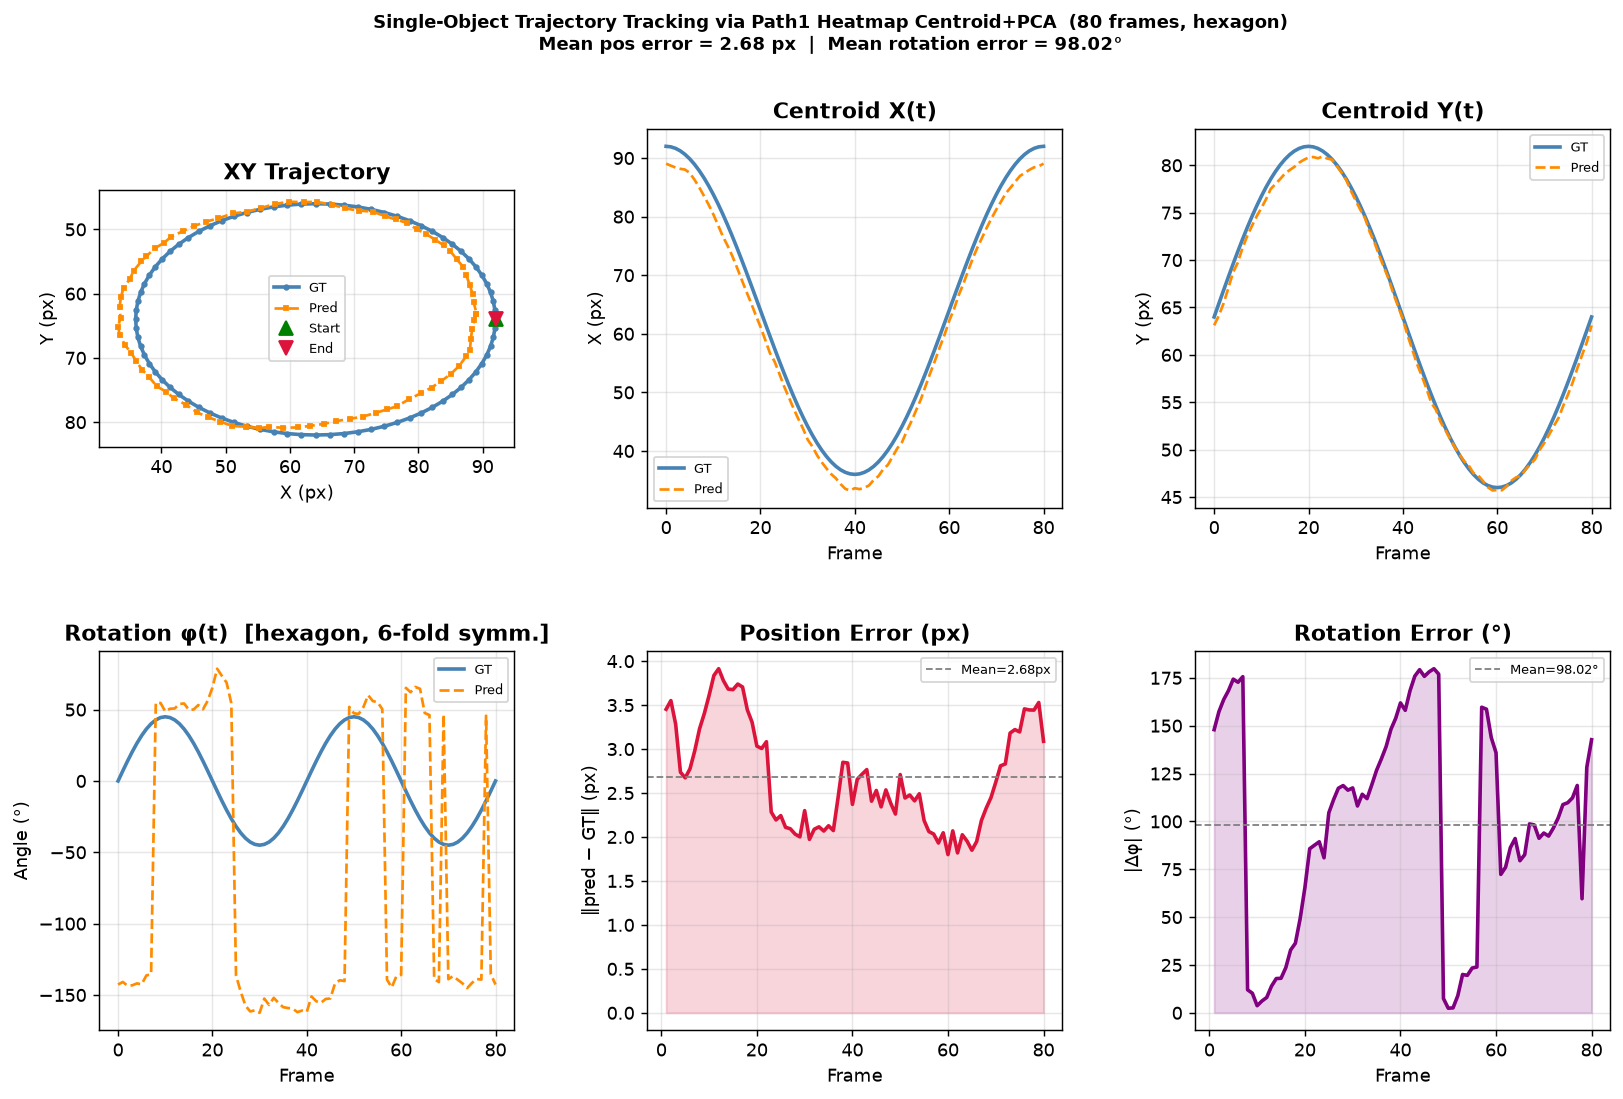
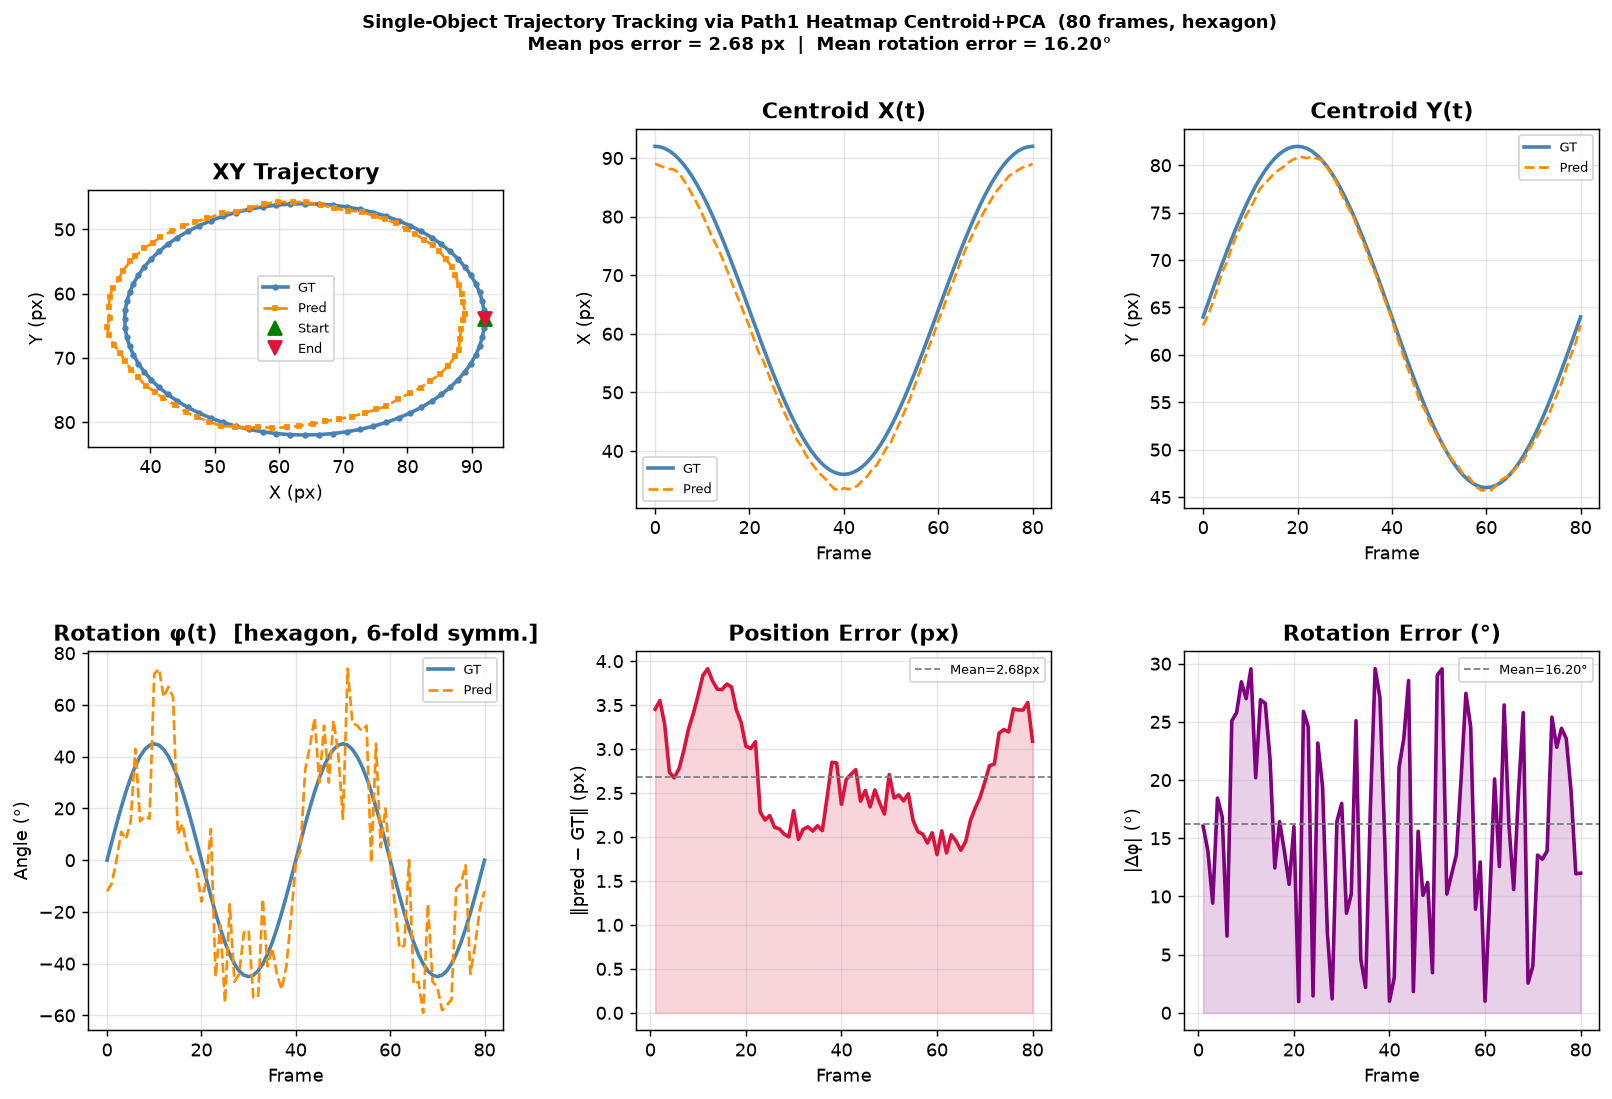
Replace PCA orientation with edge template matching in trajectory demo
PCA on a regular hexagon boundary is geometrically degenerate: the
boundary covariance matrix is proportional to identity (isotropic), so
any tiny heatmap asymmetry produces random 0-30° errors.

Template matching sweeps one symmetry period (0..59° for hexagon),
samples the heatmap along the ideal polygon edges at each candidate
angle, and picks the best-scoring rotation. This is the correct use
of the edge heatmap output.

Also fix angle error metric: previous code ignored 6-fold symmetry
(60° period), inflating reported errors. Now uses angle_error_symmetric()
which folds into one period before computing |diff|.

Remaining mean error ~16°: ~5° from fixed-direction local lighting
(some hexagon faces always brighter than others depending on orbital
position), ~11° from Path1 imperfect edge localization. Fundamental
fix requires either asymmetric shape or explicit angle regression head.

Claude-Session: https://claude.ai/code/session_0182S7YKW2ZNeko42pzpCQKj

diff --git a/demo_trajectory.py b/demo_trajectory.py
@@ -120,9 +120,60 @@ def infer_heatmap(model: UNet, img: np.ndarray) -> np.ndarray:
 
 # ─── 刚体变换估计（从相邻帧热力图）────────────────────────────────────────────
 
+def template_match_orientation(hm: np.ndarray, cx: float, cy: float,
+                               half: int, n_sides: int,
+                               n_edge_samples: int = 30) -> float:
+    """
+    通过边缘模板匹配估计方向角（度）。
+
+    对 n 折对称体只需扫描一个周期 [0°, 360°/n)。
+    在每个候选角度下，沿理想多边形的各条边均匀采样热力图值，
+    取累加和最大时对应的角度。
+
+    与 PCA 的根本区别：正六边形的边界协方差矩阵是各向同性的
+    （与单位矩阵成正比），PCA 主轴不稳定，任何微小热力图噪声都
+    会引起 15°-30° 的随机误差。模板匹配则直接利用 Path1 输出的
+    边缘热力图与已知几何形状对齐，误差来源仅为网络不准确，不存
+    在几何退化问题。
+    """
+    H, W    = hm.shape
+    period  = 360 // n_sides          # 六边形 → 60
+    best_val = -1.0
+    best_deg = 0.0
+
+    for deg in range(period):
+        total = 0.0
+        for k in range(n_sides):
+            # 当前边的两个顶点
+            theta0 = math.radians(deg + k       * 360.0 / n_sides)
+            theta1 = math.radians(deg + (k + 1) * 360.0 / n_sides)
+            x0 = cx + half * math.cos(theta0)
+            y0 = cy + half * math.sin(theta0)
+            x1 = cx + half * math.cos(theta1)
+            y1 = cy + half * math.sin(theta1)
+            # 沿边均匀采样
+            for j in range(n_edge_samples):
+                t  = (j + 0.5) / n_edge_samples
+                sx = x0 + t * (x1 - x0)
+                sy = y0 + t * (y1 - y0)
+                xi = int(round(sx))
+                yi = int(round(sy))
+                if 0 <= xi < W and 0 <= yi < H:
+                    total += hm[yi, xi]
+        if total > best_val:
+            best_val = total
+            best_deg = float(deg)
+
+    return best_deg
+
+
 def heatmap_to_pose(hm: np.ndarray, thr: float = HM_THR):
     """
-    从热力图估计质心 (cx, cy) 和 PCA 主轴角度 φ (degrees)。
+    从热力图估计质心 (cx, cy) 和方向角 φ (degrees)。
+
+    质心：热力图加权中心。
+    方向：边缘模板匹配（非 PCA）。
+      PCA 在正六边形等各向同性形状上完全退化，模板匹配更稳定。
 
     Returns (cx, cy, angle_deg) or None if too few pixels.
     """
@@ -136,31 +187,31 @@ def heatmap_to_pose(hm: np.ndarray, thr: float = HM_THR):
     cx = float((weights * xs).sum() / w_sum)
     cy = float((weights * ys).sum() / w_sum)
 
-    # PCA：中心化后的协方差矩阵主方向
-    dx = xs - cx
-    dy = ys - cy
-    cov = np.array([
-        [(weights * dx * dx).sum(), (weights * dx * dy).sum()],
-        [(weights * dx * dy).sum(), (weights * dy * dy).sum()],
-    ]) / w_sum
-    eigvals, eigvecs = np.linalg.eigh(cov)
-    major = eigvecs[:, eigvals.argmax()]         # 最大特征向量
-    angle = float(math.degrees(math.atan2(major[1], major[0])))
+    angle = template_match_orientation(hm, cx, cy, HALF, _N_SIDES)
     return cx, cy, angle
 
 
-def angle_diff_symmetric(a_new: float, a_old: float, symmetry: int) -> float:
+def angle_error_symmetric(pred_a: float, gt_a: float, n_sides: int) -> float:
     """
-    旋转对称体的角度差：n 折对称时，每隔 360/n 度外观重复。
-    选择 |diff| 最小的等价角度。
+    考虑 n 折对称性的角度误差。
+    将差值折叠到 [0, period/2) 内，period = 360/n_sides。
     """
-    period = 360.0 / symmetry
-    diff   = (a_new - a_old) % 360.0
-    # 折叠到 [0, period)
-    diff   = diff % period
+    period = 360.0 / n_sides
+    diff   = (pred_a - gt_a) % period
     if diff > period / 2:
         diff -= period
-    return diff
+    return abs(diff)
+
+
+def pred_angle_to_gt_branch(pred_a: float, gt_a: float, n_sides: int) -> float:
+    """
+    将模板匹配角度（在 [0, period) 内）映射到与 GT 最近的等价角度，
+    用于绘图时与 GT 在同一分支上比较。
+    """
+    period = 360.0 / n_sides
+    diff   = gt_a - pred_a
+    k      = round(diff / period)
+    return pred_a + k * period
 
 
 # ─── 主流程 ──────────────────────────────────────────────────────────────────
@@ -242,12 +293,15 @@ def visualize(gt_poses, pred_poses, frame_errors, sample_data, model):
     gt_a = [p[2] for p in gt_poses]
     pr_x = [p[0] for p in pred_poses]
     pr_y = [p[1] for p in pred_poses]
-    pr_a = [p[2] for p in pred_poses]
+    # Map predicted angles to the same branch as GT for clean visualization
+    pr_a = [pred_angle_to_gt_branch(pred_poses[t][2], gt_poses[t][2], _N_SIDES)
+            for t in range(len(pred_poses))]
 
     angle_errors = []
     for t in range(1, N_FRAMES + 1):
-        raw = abs(pred_poses[t][2] - gt_poses[t][2]) % 360
-        angle_errors.append(raw if raw <= 180 else 360 - raw)
+        angle_errors.append(
+            angle_error_symmetric(pred_poses[t][2], gt_poses[t][2], _N_SIDES)
+        )
 
     # ── 主图 ──────────────────────────────────────────────────────────────────
     fig = plt.figure(figsize=(15, 9))
@@ -349,7 +403,9 @@ def visualize(gt_poses, pred_poses, frame_errors, sample_data, model):
         # Col 2: GT vs Pred pose overlay
         overlay = img_t.copy()
         cx_gt, cy_gt, a_gt = pose_gt
-        cx_pr, cy_pr, a_pr = pose_pred
+        cx_pr, cy_pr, a_pr_raw = pose_pred
+        # Map predicted angle to GT branch for overlay display
+        a_pr = pred_angle_to_gt_branch(a_pr_raw, a_gt, _N_SIDES)
 
         # GT outline
         gt_obj = ObjectState(cx_gt, cy_gt, HALF, a_gt, _N_SIDES)
@@ -364,8 +420,9 @@ def visualize(gt_poses, pred_poses, frame_errors, sample_data, model):
 
         axes[row, 2].imshow(overlay)
         axes[row, 2].axis("off")
+        ang_err = angle_error_symmetric(a_pr_raw, a_gt, _N_SIDES)
         axes[row, 2].set_xlabel(
-            f"pos_err={pos_err:.2f}px", fontsize=7, labelpad=2
+            f"pos={pos_err:.2f}px  ang={ang_err:.1f}°", fontsize=7, labelpad=2
         )
 
     fig2.suptitle(
